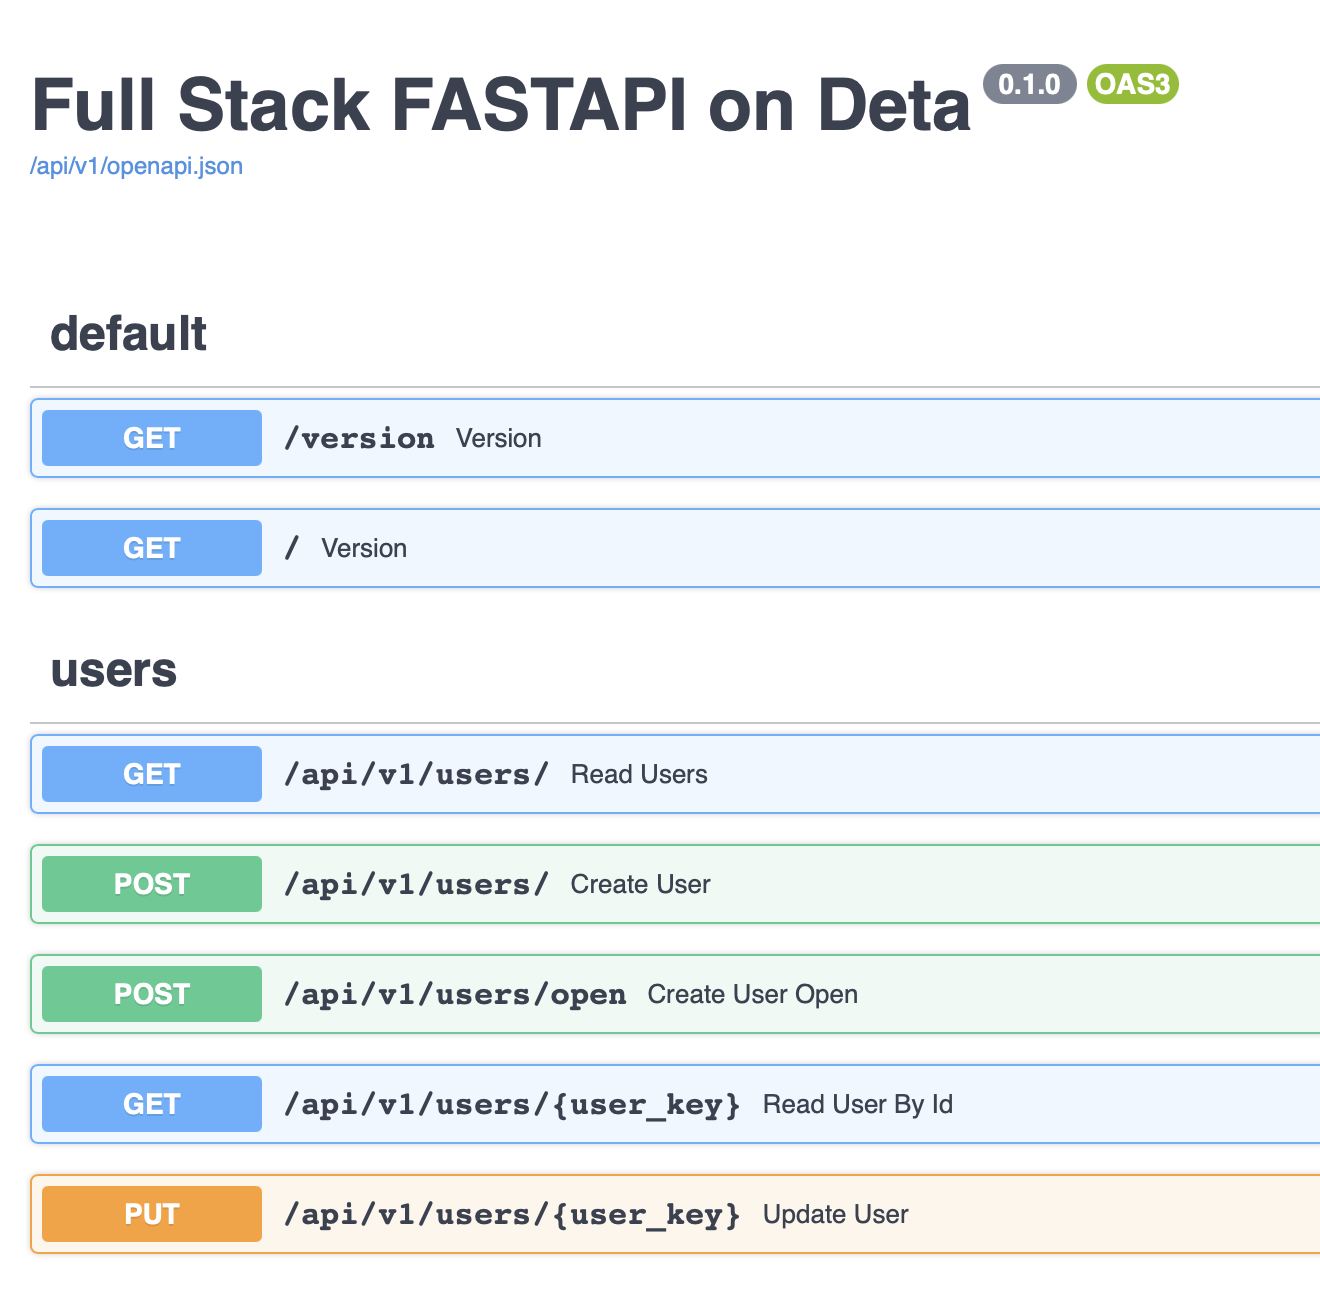
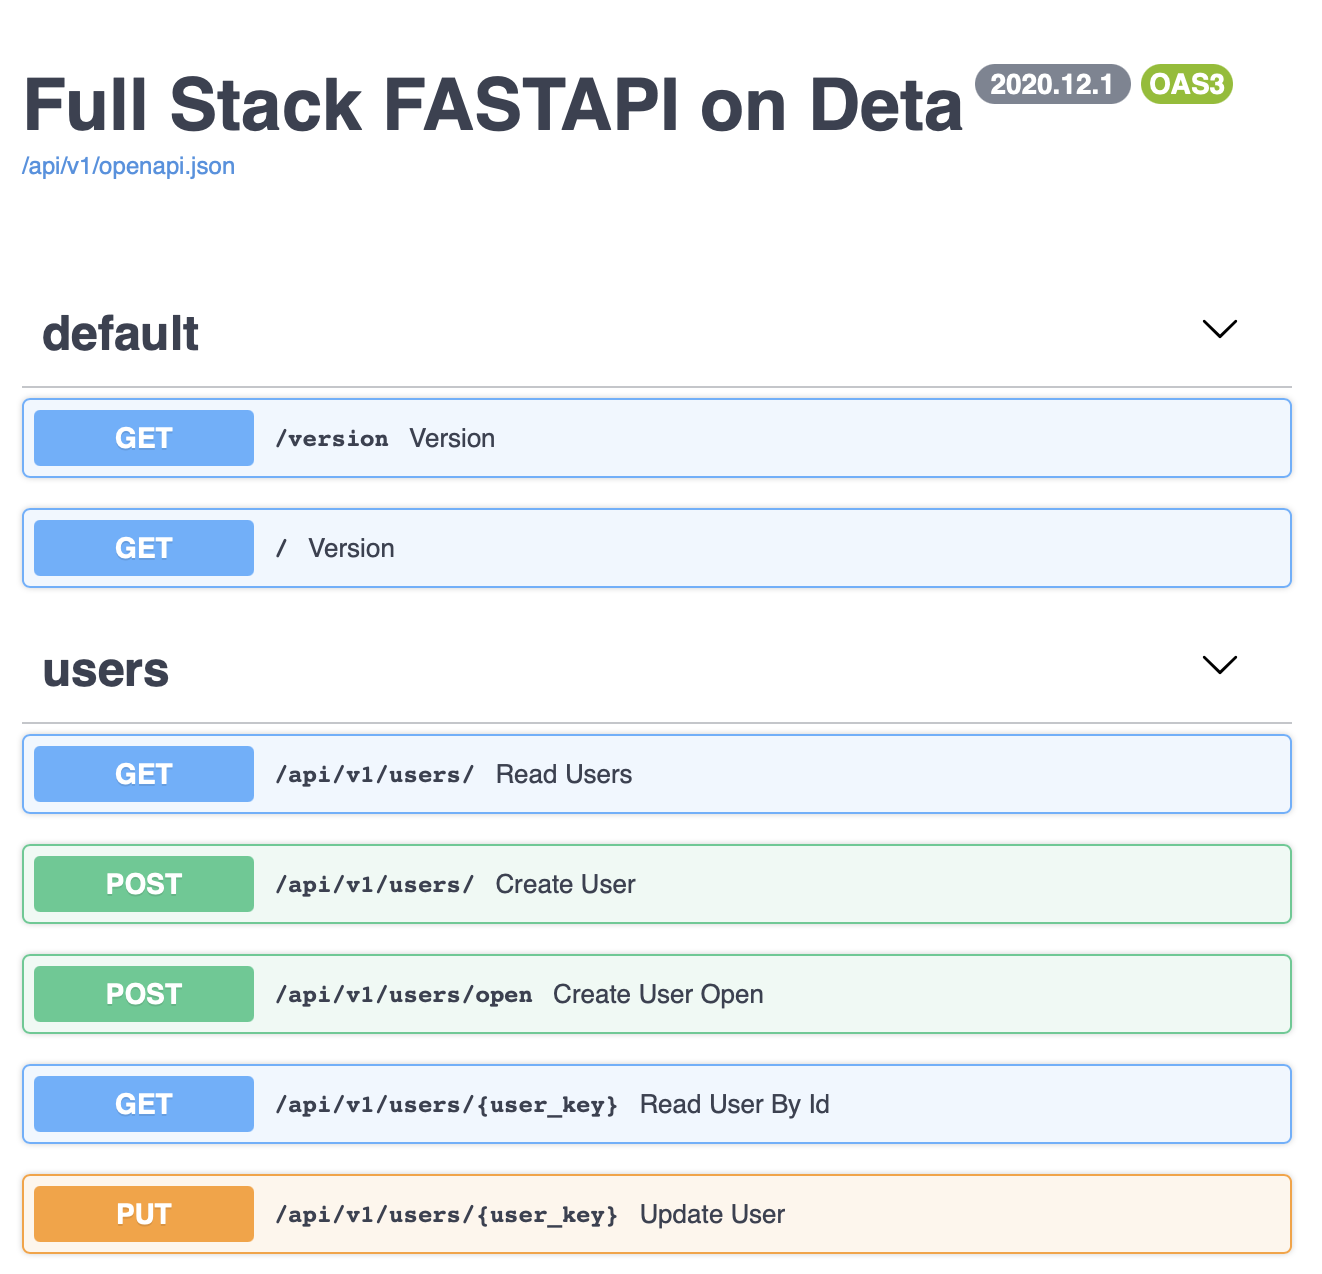
Set version when creating app

diff --git a/backend/main.py b/backend/main.py
@@ -6,7 +6,7 @@ from core.api import api_router as core
 from users.api import api_router as users
 
 app = FastAPI(
-    title=settings.PROJECT_NAME, openapi_url=f"{settings.API_V1_STR}/openapi.json"
+    title=settings.PROJECT_NAME, openapi_url=f"{settings.API_V1_STR}/openapi.json", version=settings.VERSION
 )
 
 # Set all CORS enabled origins
